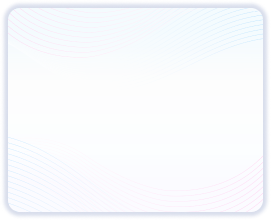
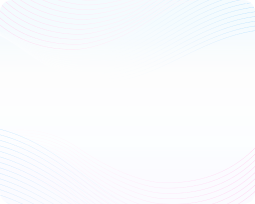
Our plan carousel design fix in home screen

Changed region(s): [[0.0, 0.0294, 1.0, 1.0], [0.0275, 0.0, 0.9059, 0.0588], [0.9059, 0.0, 0.9333, 0.0294]]

diff --git a/src/modules/ourPlan/components/PlanCard/styles.js b/src/modules/ourPlan/components/PlanCard/styles.js
@@ -1,6 +1,6 @@
 import {StyleSheet} from 'react-native';
 import { BLACK, CYAN_BLUE, DEEP_RED, LIGHT_SKY_BLUE, ORANGE, PINK_RED, VERY_LIGHT_SKY_BLUE, WHITE } from '../../../../styles/colors';
-import { ABSOLUTE, CENTER, FLEX_END, FLEX_START, LEFT, LINE_THROUGH, RIGHT, ROW } from '../../../../styles/constants';
+import { ABSOLUTE, CENTER, FLEX_END, FLEX_START, LEFT, LINE_THROUGH, RIGHT, ROW, SPACE_BETWEEN } from '../../../../styles/constants';
 import { fonts } from '../../../../styles/fonts';
 import { getDimensions } from '../../../../utils/utils';
 
@@ -8,26 +8,27 @@ const {width, height} = getDimensions();
 
 export const styles = StyleSheet.create({
   container: {
-    width: 0.84 * width,
-    height: 0.38 * height,
     borderRadius: 12,
-    shadowOffset: {
-      width: 0,
-      height: 4,
-    },
-    shadowOpacity: 0.2,
-    shadowColor: BLACK,
+    elevation:10,
+    zIndex:10,
+    shadowColor:BLACK,
+    marginBottom:12,
+    marginTop:8
   },
   imgBackground: {
-    width: 0.84 * width,
-    height: 0.38 * height,
-    position: ABSOLUTE,
-  },
-  containerView: {
     width: '100%',
     height: '100%',
-    paddingHorizontal: '3%',
-    paddingVertical: '5%',
+    position: ABSOLUTE,
+    borderRadius: 12,
+    elevation:15,
+    zIndex:15,
+    shadowColor:BLACK
+  },
+  containerView: {
+    paddingLeft: 12,
+    paddingTop: 10,
+    elevation:16,
+    zIndex:16
   },
   headingView: {
     paddingTop: 4,
@@ -37,51 +38,46 @@ export const styles = StyleSheet.create({
     fontFamily: fonts.family.rubik600,
     color: ORANGE,
     lineHeight: 18,
-    paddingHorizontal: 16,
+    paddingHorizontal: 8,
   },
   itemContainer: {
+    flex:1,
     flexDirection: ROW,
-    paddingHorizontal: 6,
     paddingVertical: 6,
-    width: '40%',
-    marginHorizontal: 12,
   },
   iconStyle: {
-    width: 0.08 * width,
-    height: 0.08 * width
+    width:30,
+    height:30
   },
   serviceContainer: {
     flex:1,
     paddingTop: 4,
   },
   detailsView: {
-    paddingHorizontal: 4,
     justifyContent: CENTER,
-    width: '80%'
   },
   serviceNameText: {
     fontFamily: fonts.family.rubik400,
     fontSize: fonts.size.fontSize8,
     lineHeight: 10,
     color: CYAN_BLUE,
+    maxWidth: 80,
   },
   serviceDetailsText: {
     fontFamily: fonts.family.rubik400,
     fontSize: fonts.size.fontSize6,
     lineHeight: 8,
     color: CYAN_BLUE,
+    maxWidth: 80
   },
   notAvailable: {
     color: DEEP_RED,
   },
   bottomView: {
-    width: '100%',
     flex: 1,
     flexDirection: ROW,
   },
   priceView: {
-    width: '40%',
-    marginHorizontal: 4,
     justifyContent: CENTER,
     alignItems: CENTER,
   },
@@ -138,12 +134,8 @@ export const styles = StyleSheet.create({
     color: WHITE,
     lineHeight: 15,
   },
-  imageView: {
-    width: '50%',
-  },
   valueContainer: {
     flexDirection: ROW,
-    paddingHorizontal: 4,
   },
   imageDetails: {
     width: 0.45 * width,

diff --git a/src/modules/ourPlan/components/PlanCard/index.js b/src/modules/ourPlan/components/PlanCard/index.js
@@ -17,7 +17,7 @@ const PlanCard = (props) => {
   const renderItem = ({item: serviceItem, index}) => {
     const { serviceName, shortDescription, image, available } = serviceItem || {};
     return (
-      <View style={styles.itemContainer} key={index}>
+      <View style={{...styles.itemContainer,maxWidth:'40%',marginRight:index%2===0? 36 : undefined}} key={index}>
         <View>
           <Image source={image} style={styles.iconStyle}/>
         </View>
@@ -31,7 +31,7 @@ const PlanCard = (props) => {
 
   return (
     <TouchableOpacity onPress={onDetailsScreen} disabled={!isHomeScreen} style={styles.container}>
-      <Image source={PNG.OurPlanBackground} style={styles.imgBackground} resizeMode={'contain'}/>
+      <Image source={PNG.OurPlanBackground} style={styles.imgBackground} resizeMode={'cover'}/>
         <View style={styles.containerView}>
           <View style={styles.headingView}>
             <Text style={styles.headingText}>{name || ''}</Text>
@@ -42,7 +42,7 @@ const PlanCard = (props) => {
             scrollEnabled={false}
             keyExtractor={item => `${item}`}
             numColumns={2}
-            style={styles.serviceContainer}
+            contentContainerStyle={styles.serviceContainer}
           />
           <View style={styles.bottomView}>
             <View style={styles.priceView}>
@@ -66,7 +66,7 @@ const PlanCard = (props) => {
                 </View>
               }
             </View>
-            <View style={styles.imageView}>
+            <View>
               <Image source={PNG.POPULAR_PLAN} style={styles.imageDetails}/>
             </View>
           </View>

diff --git a/src/modules/ourPlan/index.js b/src/modules/ourPlan/index.js
@@ -57,6 +57,7 @@ const OurPlan = (props) => {
         showsHorizontalScrollIndicator={false}
         viewabilityConfigCallbackPairs={viewabilityConfigCallbackPairs.current}
         viewabilityConfig={viewabilityConfig}
+        ItemSeparatorComponent={() => <View style={styles.separatorStyle}/>}
       />
       <FlatList
         data={new Array(popularPlan.length)}

diff --git a/src/modules/ourPlan/styles.js b/src/modules/ourPlan/styles.js
@@ -32,7 +32,7 @@ export const styles = StyleSheet.create({
     width: 208,
   },
   cardView: {
-    backgroundColor: WHITE,
+    paddingHorizontal: 12
   },
   subHeadingView: {
     marginVertical: 12,
@@ -56,5 +56,6 @@ export const styles = StyleSheet.create({
   },
   activeIndexView: {
     backgroundColor: ORANGE
-  }
+  },
+  separatorStyle: {width:24}
 });
